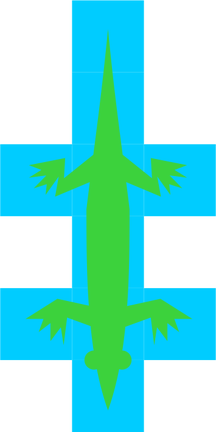
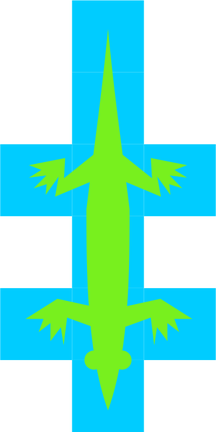
style(hippos): brighter lime-green crocodile for the Bright colours preference

Changed region(s): [[0.1389, 0.0903, 0.8889, 0.963]]

diff --git a/games/hipposcrocodiles/design/make_board_art.py b/games/hipposcrocodiles/design/make_board_art.py
@@ -110,7 +110,7 @@ SP = 118.0
 CYAN = (0, 204, 255)
 ANIMAL = {'hippo': (124, 92, 72), 'crocodile': (74, 112, 52)}
 # Preference "Animal colours: Bright": happy, childish colours
-BRIGHT = {'hippo': (255, 92, 184), 'crocodile': (60, 210, 60)}
+BRIGHT = {'hippo': (255, 92, 184), 'crocodile': (120, 240, 30)}
 def recolor(im, name, palette=ANIMAL):
     px = im.load()
     new = palette[name]
